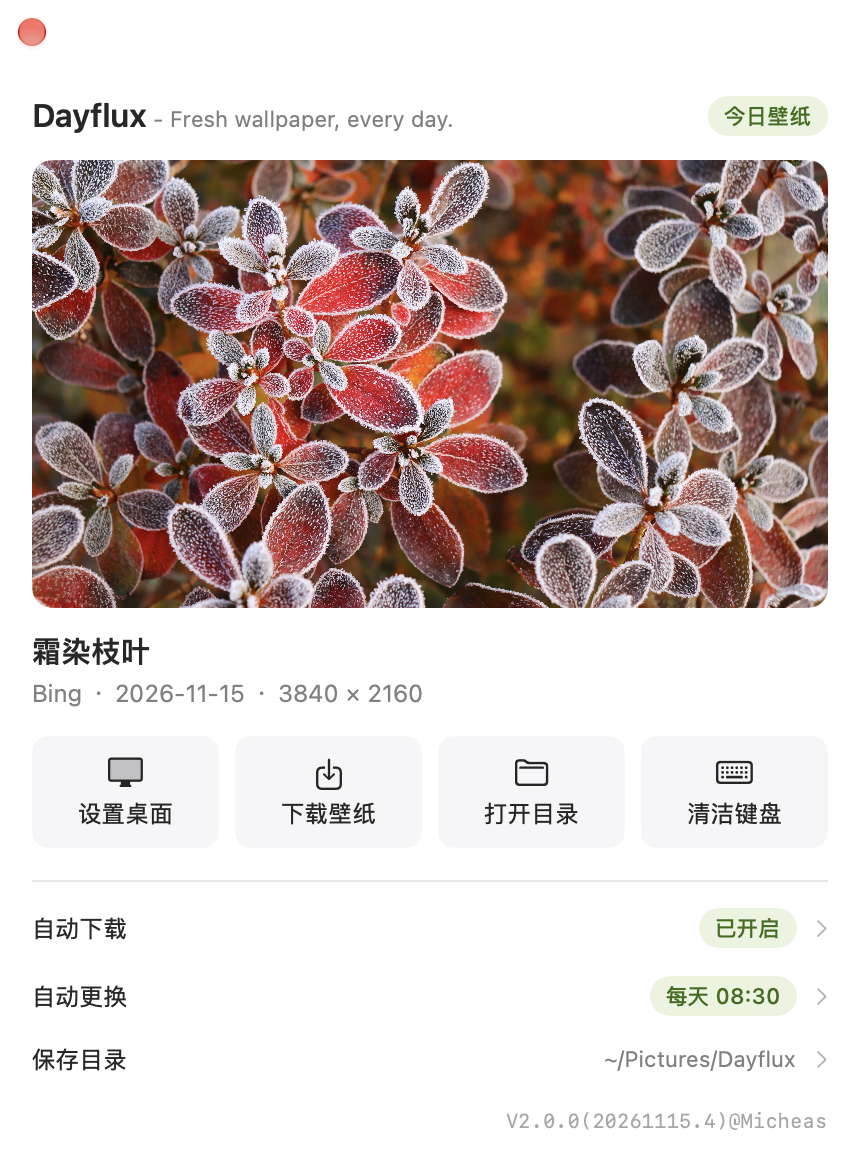
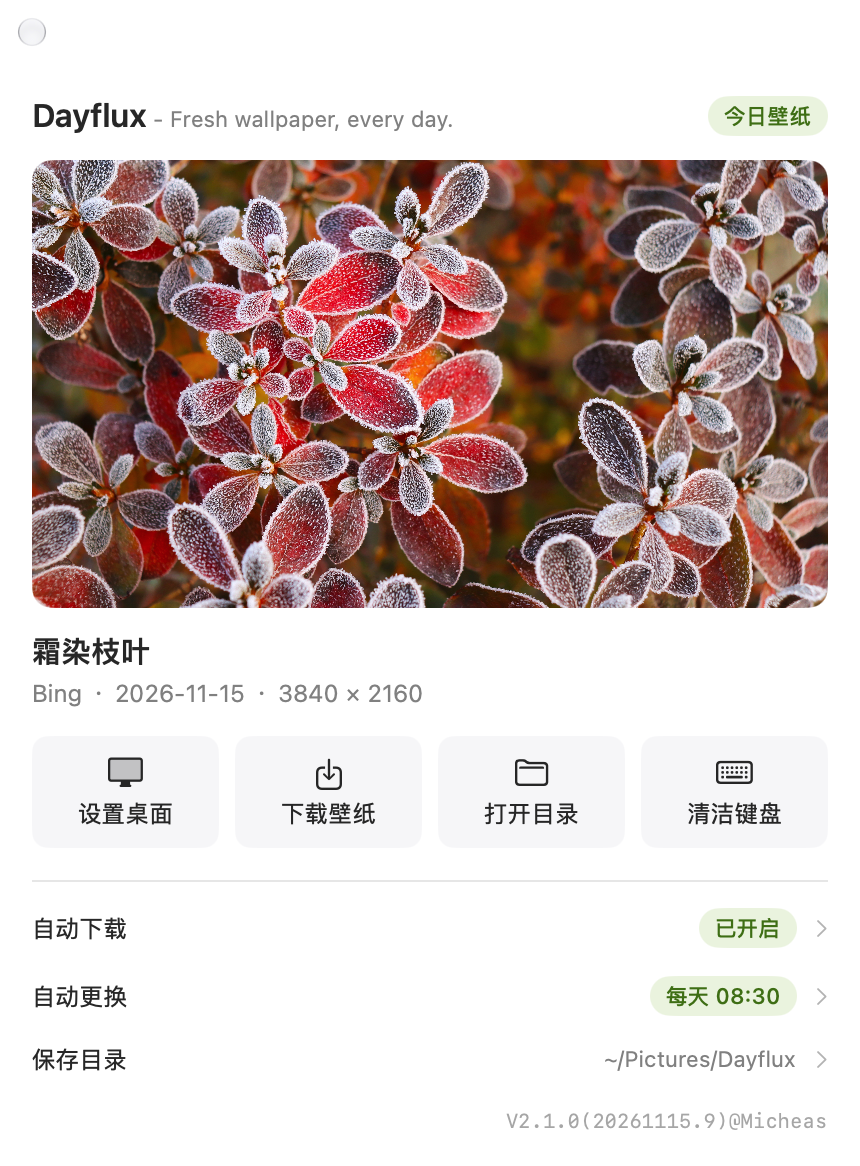
refactor: 2.1.0 精简右键菜单并改为全静态，消除弹出时位置跳动

diff --git a/Sources/main.swift b/Sources/main.swift
@@ -57,7 +57,7 @@ private enum DelegateHolder {
 }
 
 @MainActor
-final class AppDelegate: NSObject, NSApplicationDelegate, NSMenuDelegate, NSWindowDelegate {
+final class AppDelegate: NSObject, NSApplicationDelegate, NSWindowDelegate {
     private var statusItem: NSStatusItem?
     private var statusMenu: NSMenu?
     private var statusBarAction: StatusBarAction?
@@ -111,7 +111,7 @@ final class AppDelegate: NSObject, NSApplicationDelegate, NSMenuDelegate, NSWind
     }
 
     /// 从启动台 / 访达再次打开时，直接显示主窗口，
-    /// 不需要再从右键菜单里选「打开主窗口」。
+    /// 与左键点击菜单栏图标的行为一致。
     func applicationShouldHandleReopen(_ sender: NSApplication,
                                        hasVisibleWindows flag: Bool) -> Bool {
         dayfluxStatusLog("收到重新打开请求（启动台/访达双击）→ 显示主窗口")
@@ -306,16 +306,9 @@ final class AppDelegate: NSObject, NSApplicationDelegate, NSMenuDelegate, NSWind
         button.imagePosition = .imageOnly
         button.toolTip = "Dayflux · 左键打开主窗口，右键打开菜单"
 
+        // 菜单内容全部静态：弹出期间不增删项、不改标题，
+        // 避免布局重算造成菜单位置跳动。
         let menu = NSMenu()
-        menu.delegate = self
-        add(menu, "打开主窗口") { [weak self] in self?.showWindow() }
-        menu.addItem(.separator())
-
-        let info = NSMenuItem(title: "今日：获取中…", action: nil, keyEquivalent: "")
-        info.isEnabled = false
-        info.tag = 99
-        menu.addItem(info)
-        menu.addItem(.separator())
 
         add(menu, "立即下载") { [weak self] in
             Task { @MainActor in await self?.state.downloadWithConflictCheck() }
@@ -388,10 +381,6 @@ final class AppDelegate: NSObject, NSApplicationDelegate, NSMenuDelegate, NSWind
         menu.addItem(item)
     }
 
-    func menuWillOpen(_ menu: NSMenu) {
-        guard let item = menu.items.first(where: { $0.tag == 99 }) else { return }
-        item.title = "今日：" + (state.wallpaper?.title ?? "获取中…")
-    }
 }
 
 // main.swift 的顶层代码不在 MainActor 隔离上下文；AppDelegate 是 @MainActor，

diff --git a/README.md b/README.md
@@ -21,7 +21,7 @@
 ## 系统要求与安装
 
 - macOS 27.2 或更新版本（Apple Silicon 已验证）；从源码构建需要 Xcode Command Line Tools，不需要 Xcode.app，也不需要 Apple Developer 账号。
-- **预编译包**：从 [GitHub Releases](https://github.com/kingdocs/dayflux/releases) 下载 `Dayflux-2.0.0-macos.zip`，解压后把 `Dayflux.app` 拖入 `/Applications`，双击启动。
+- **预编译包**：从 [GitHub Releases](https://github.com/kingdocs/dayflux/releases) 下载 `Dayflux-2.1.0-macos.zip`，解压后把 `Dayflux.app` 拖入 `/Applications`，双击启动。
 - 预编译包为自签名、**未经 Apple 公证**。首次打开请右键「打开」，或在「系统设置 → 隐私与安全性」中允许；更推荐从源码自行构建签名（见下节）。
 - 应用为 `LSUIElement` 类型，**不进 Dock、启动不弹主窗口**，只驻留菜单栏；左键点图标调出主界面，关闭主窗口不会退出应用。
 
@@ -99,9 +99,9 @@ open build/Dayflux.app
 
 ## 版本号
 
-- 当前版本 **2.0.0**，为本项目的**首个公开发布版本**。
+- 当前版本 **2.1.0**；首个公开发布版本为 2.0.0。
 - 三段语义化规则：第 1 位用于新增功能或大的功能性升级，第 2 位用于小的功能性调整，第 3 位**只在纯 BUG 修复时**变更。
-- 主界面右下角页脚形如 `V2.0.0(20261115.4)@Micheas`：软件版本、构建日期与当天第几次成功编译、作者署名。
+- 主界面右下角页脚形如 `V2.1.0(20261115.9)@Micheas`：软件版本、构建日期与当天第几次成功编译、作者署名。
 - 版本号在 `build.sh` 顶部 `APP_VERSION`、署名在 `AUTHOR_TAG`；构建序号由脚本按当天成功次数自动累加（跨天归 1，失败不计数），存于不入库的 `.buildcounter`；`build/generated/BuildInfo.swift` 由脚本生成，页脚与 `Info.plist` 使用同一份值。
 - 各版本发布说明见 [GitHub Releases](https://github.com/kingdocs/dayflux/releases)。
 
